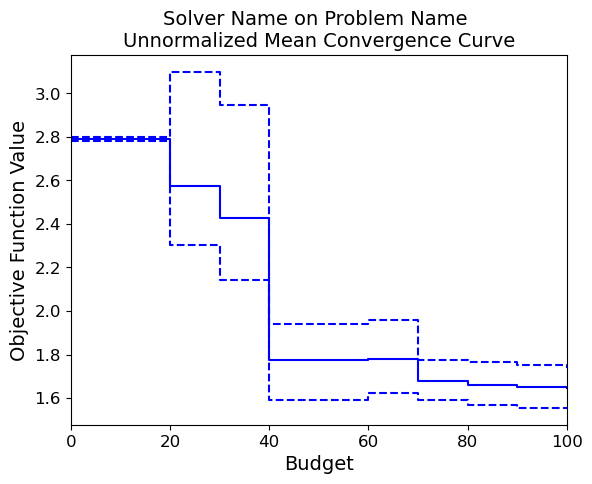
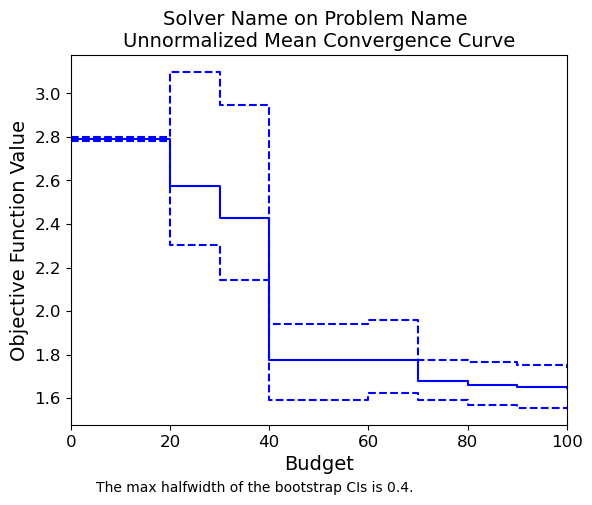
simplify plotting and reporting of bootstrapping CIs
Created dedicated method plot_bootstrap_CIs to create bootstrap CIs for different situations and optionally plot them.

diff --git a/simopt/wrapper_base.py b/simopt/wrapper_base.py
@@ -215,53 +215,24 @@ class Experiment(object):
         elif plot_type == "mean":
             # plot estimated mean convergence curve
             if normalize == True:
-                plt.step(self.unique_frac_budgets, np.mean(self.all_conv_curves, axis=0), 'b-', where='post')
-                # construct bootstrap confidence intervals
-                bs_CI_lower_bounds, bs_CI_upper_bounds, max_halfwidth = self.bootstrap_CI(plot_type=plot_type, normalize=normalize, estimator = np.mean(self.all_conv_curves, axis=0))
-                if plot_CIs == True:
-                    # plot bootstrap confidence intervals
-                    plt.step(self.unique_frac_budgets, bs_CI_lower_bounds, 'b--', where='post')
-                    plt.step(self.unique_frac_budgets, bs_CI_upper_bounds, 'b--', where='post')
-                # print caption about max halfwidth
-                txt = "The max halfwidth of the bootstrap CIs is " + str(round(max_halfwidth,2)) + "."
-                plt.text(x=0.05, y=-0.35, s=txt)
+                estimator = np.mean(self.all_conv_curves, axis=0)
+                plt.step(self.unique_frac_budgets, estimator, 'b-', where='post')
             else: # unnormalized
-                plt.step(self.unique_budgets, np.mean(self.all_est_objective, axis=0), 'b-', where='post')
-                # construct bootstrap confidence intervals
-                bs_CI_lower_bounds, bs_CI_upper_bounds, max_halfwidth = self.bootstrap_CI(plot_type=plot_type, normalize=normalize, estimator = np.mean(self.all_est_objective, axis=0))
-                if plot_CIs == True:
-                    # plot bootstrap confidence intervals
-                    plt.step(self.unique_budgets, bs_CI_lower_bounds, 'b--', where='post')
-                    plt.step(self.unique_budgets, bs_CI_upper_bounds, 'b--', where='post')
-                # print caption about max halfwidth
-                #txt = "The max halfwidth of the bootstrap CIs is " + str(round(max_halfwidth,2)) + "."
-                #plt.text(x=0.05, y=-0.35, s=txt)
+                estimator = np.mean(self.all_est_objective, axis=0)
+                plt.step(self.unique_budgets, estimator, 'b-', where='post')
         elif plot_type == "quantile":
             # plot estimated beta quantile convergence curve
             if normalize == True:
-                plt.step(self.unique_frac_budgets, np.quantile(self.all_conv_curves, q=beta, axis=0), 'b-', where='post')
-                # construct bootstrap confidence intervals, plot, and print caption
-                bs_CI_lower_bounds, bs_CI_upper_bounds, max_halfwidth = self.bootstrap_CI(plot_type=plot_type, normalize=normalize, estimator = np.quantile(self.all_conv_curves, q=beta, axis=0), beta=beta)
-                if plot_CIs == True:
-                    # plot bootstrap confidence intervals
-                    plt.step(self.unique_frac_budgets, bs_CI_lower_bounds, 'b--', where='post')
-                    plt.step(self.unique_frac_budgets, bs_CI_upper_bounds, 'b--', where='post')
-                # print caption about max halfwidth
-                txt = "The max halfwidth of the bootstrap CIs is " + str(round(max_halfwidth,2)) + "."
-                plt.text(x=0.05, y=-0.35, s=txt)
+                estimator = np.quantile(self.all_conv_curves, q=beta, axis=0)
+                plt.step(self.unique_frac_budgets, estimator, 'b-', where='post')
             else: # unnormalized
-                plt.step(self.unique_budgets, np.quantile(self.all_est_objective, q=beta, axis=0), 'b-', where='post')
-                # construct bootstrap confidence intervals
-                bs_CI_lower_bounds, bs_CI_upper_bounds, max_halfwidth = self.bootstrap_CI(plot_type=plot_type, normalize=normalize, estimator = np.quantile(self.all_est_objective, q=beta, axis=0), beta=beta)
-                if plot_CIs == True:
-                    # plot bootstrap confidence intervals
-                    plt.step(self.unique_budgets, bs_CI_lower_bounds, 'b--', where='post')
-                    plt.step(self.unique_budgets, bs_CI_upper_bounds, 'b--', where='post')
-                # print caption about max halfwidth
-                #txt = "The max halfwidth of the bootstrap CIs is " + str(round(max_halfwidth,2)) + "."
-                #plt.text(x=0.05, y=-0.35, s=txt)
+                estimator = np.quantile(self.all_est_objective, q=beta, axis=0)
+                plt.step(self.unique_budgets, estimator, 'b-', where='post')
         else:
             print("Not a valid plot type.")
+        if plot_type=="mean" or plot_type=="quantile":
+            # report bootstrapping error estimation and optionally plot bootstrap CIs
+            self.plot_bootstrap_CIs(plot_type, normalize, estimator, plot_CIs, beta)
         save_plot(plot_type=plot_type, normalize=normalize)
 
     def areas_under_conv_curves(self):
@@ -333,21 +304,17 @@ class Experiment(object):
                 if np.array_equal(self.initial_soln.objectives[0:self.n_postreps_init_opt,0], self.all_post_replicates[mrep][budget]):
                     # plug in fixed bootstrapped f(x0)
                     bootstrap_est_objective[bs_mrep][budget] = bs_initial_obj_val
-                    #bs_current_obj_val = bs_initial_obj_val
                 # elif solution is x*
                 elif np.array_equal(self.ref_opt_soln.objectives[0:self.n_postreps_init_opt,0], self.all_post_replicates[mrep][budget]):
                     # plug in fixed bootstrapped f(x*)
                     bootstrap_est_objective[bs_mrep][budget] = bs_ref_opt_obj_val
-                    #bs_current_obj_val = bs_ref_opt_obj_val
                 else: # else solution other than x0 or x*
                     # uniformly resample N postreps (with replacement) from 0, 1, ..., N-1
                     postreps = bootstrap_rng.choices(range(self.n_postreps), k=self.n_postreps)
                     # compute the mean of the resampled postreplications
                     bootstrap_est_objective[bs_mrep][budget] = np.mean([self.all_post_replicates[mrep][budget][postrep] for postrep in postreps])
-                    #bs_current_obj_val = np.mean([self.all_post_replicates[mrep][budget][postrep] for postrep in postreps])
                 # normalize the estimated objective function value
                 bootstrap_conv_curves[bs_mrep][budget] = (bootstrap_est_objective[bs_mrep][budget] - bs_ref_opt_obj_val)/bs_initial_opt_gap
-                #bootstrap_conv_curves[bs_mrep][budget] = (bs_current_obj_val - bs_ref_opt_obj_val)/bs_initial_opt_gap
                 # reset subsubstream if using CRN across budgets
                 if crn_across_budget == True:
                     bootstrap_rng.reset_subsubstream()
@@ -384,6 +351,7 @@ class Experiment(object):
             use bias-corrected bootstrap CIs (via percentile method)?
         beta : float
             quantile for quantile aggregate convergence curve, e.g., beta quantile 
+        
         Returns
         -------
         bs_CI_lower_bounds : numpy array
@@ -430,6 +398,44 @@ class Experiment(object):
             bs_CI_upper_bounds = np.quantile(bs_aggregate_curves, q=q_upper, axis=0)
         max_halfwidth = np.max((bs_CI_upper_bounds - bs_CI_lower_bounds)/2)
         return bs_CI_lower_bounds, bs_CI_upper_bounds, max_halfwidth
+
+    def plot_bootstrap_CIs(self, plot_type, normalize, estimator, plot_CIs, beta):
+        """
+        Optionally plot bootstrap confidence intervals and report max half-width.
+
+        Arguments
+        ---------
+        plot_type : string
+            indicates which type of plot to produce
+                "all" : all estimated convergence curves
+                "mean" : estimated mean convergence curve
+                "quantile" : estimated beta quantile convergence curve
+        normalize : Boolean
+            normalize convergence curves w.r.t. optimality gaps?
+        estimator : numpy array
+            estimated mean or quantile convergence curve
+        plot_CIs : Boolean
+            plot bootstrapping confidence intervals?
+        beta : float (optional)
+            quantile for quantile aggregate convergence curve, e.g., beta quantile   
+        """
+        # construct bootstrap confidence intervals, plot, and print caption
+        bs_CI_lower_bounds, bs_CI_upper_bounds, max_halfwidth = self.bootstrap_CI(plot_type=plot_type, normalize=normalize, estimator=estimator, beta=beta)
+        if normalize == True:
+            budgets = self.unique_frac_budgets
+            xloc = 0.05
+            yloc = -0.35
+        else:
+            budgets = self.unique_budgets
+            xloc = 0.05*self.problem.budget
+            yloc = min(bs_CI_lower_bounds) - 0.25*(max(bs_CI_upper_bounds) - min(bs_CI_lower_bounds))
+        if plot_CIs == True:
+            # plot bootstrap confidence intervals
+            plt.step(budgets, bs_CI_lower_bounds, 'b--', where='post')
+            plt.step(budgets, bs_CI_upper_bounds, 'b--', where='post')
+        # print caption about max halfwidth
+        txt = "The max halfwidth of the bootstrap CIs is " + str(round(max_halfwidth,2)) + "."
+        plt.text(x=xloc, y=yloc, s=txt)
 
 def stylize_plot(plot_type, normalize, budget=None, beta=None):
     """
